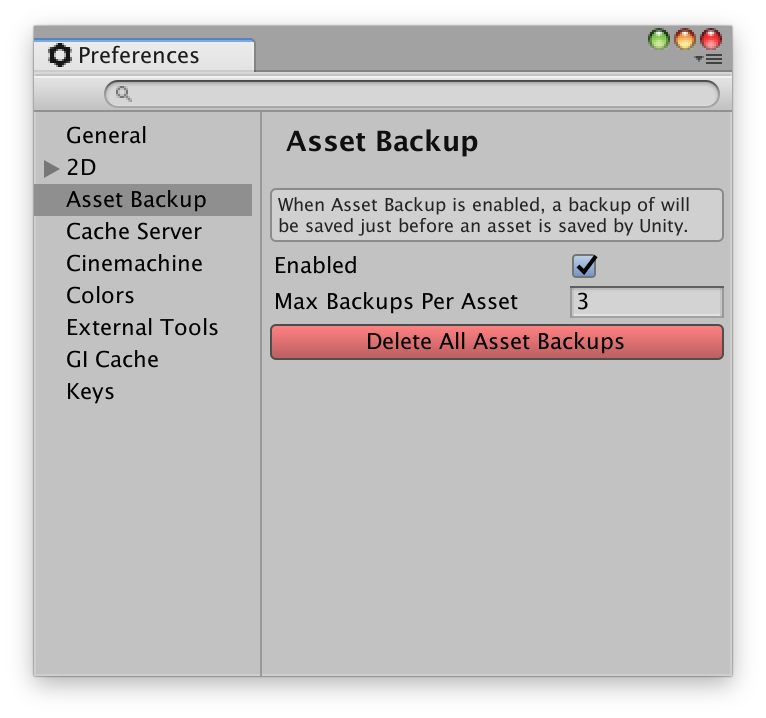
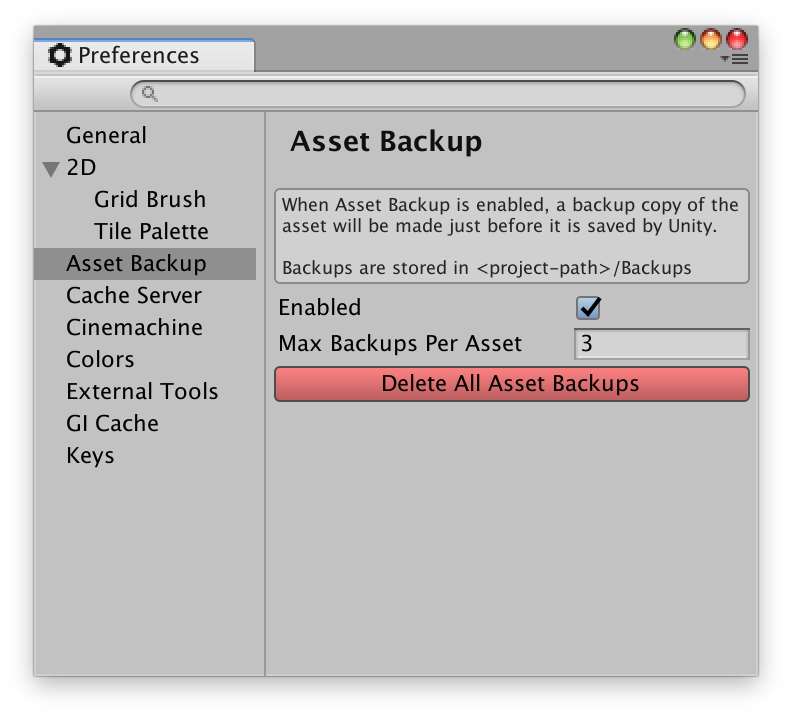
corrected a strangely worded help box

diff --git a/AssetBackupPreferences.cs b/AssetBackupPreferences.cs
@@ -123,8 +123,9 @@ namespace UnityExtensions
             var projectPath = AssetBackup.ProjectPath;
             var backupsPath = Path.Combine(projectPath, "Backups");
             EditorGUILayout.HelpBox(
-                "When Asset Backup is enabled, a backup of will be saved "+
-                "just before an asset is saved by Unity.",
+                "When Asset Backup is enabled, a backup copy of the asset "+
+                "will be made just before it is saved by Unity.\n\n"+
+                "Backups are stored in <project-path>/Backups",
                 MessageType.None);
 
             var oldAssetBackupEnabled = assetBackupEnabled;
